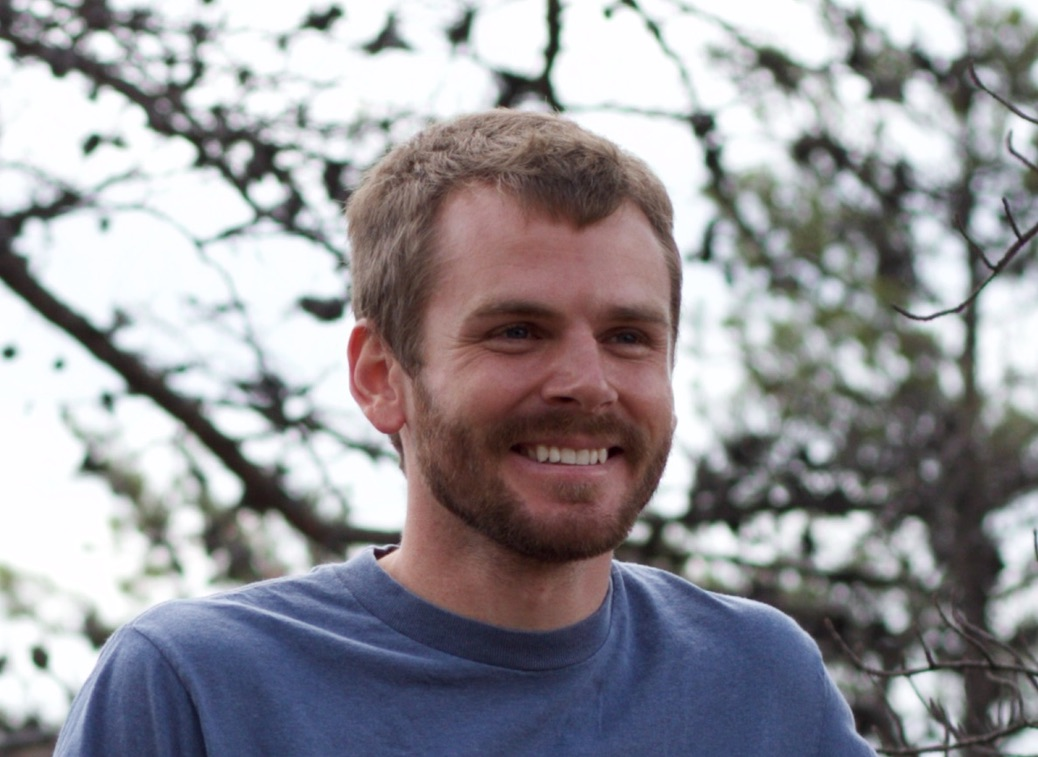
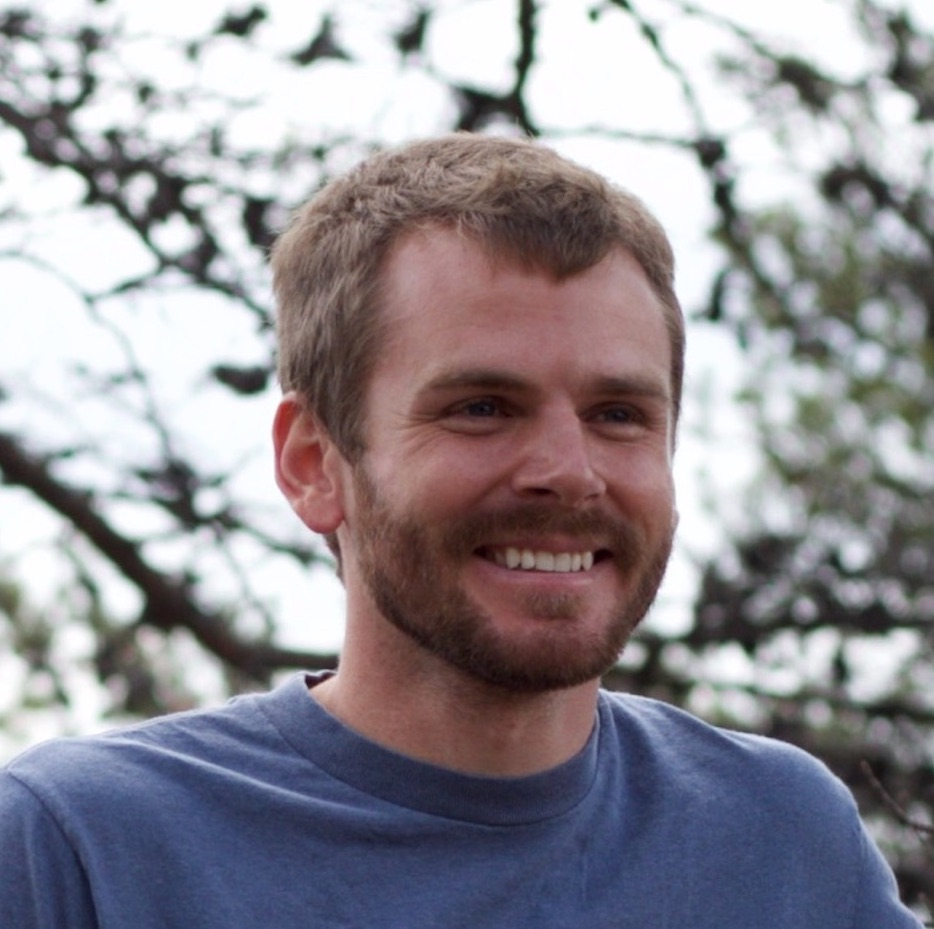
Adjust profile-pic and skills section formatting

diff --git a/index.html b/index.html
@@ -25,7 +25,6 @@
 
   <div class="middle-container">
     <div class="profile">
-      <!-- Change this pic to something outdoorsy -->
       <img class="profile-pic" src="./images/profile-pic.jpeg" alt="Me stiffling a laugh">
       <h2>Hello.</h2>
       <p>I'm a Fullstack Software Developer that loves the outdoors <em>almost</em> as much as technology!</p>
@@ -38,7 +37,6 @@
   
   <div id="skills-section" class="middle-container">
     <div class="skill">
-      <!--left justify skills, use the same font as title-->
       <h2>My Skills.</h2>
       <div class="skill-row frontend-skill">
         <img class="frontend-icon" src="./images/frontend-icon.png" alt="HTML carrots only containing a forward slash">
@@ -67,7 +65,7 @@
     <div class="contact-me">
       <h2>Get In Touch.</h2>
       <h4>Email:</h4>
-      <p>Hyrum.butler3@gmail.com</p>
+      <p>hyrum.butler3@gmail.com</p>
       <h4>Phone number:</h4>
       <p>(540)-816-9487</p>
       <a class="btn email-link" href="mailto:hyrum.butler3@gmail.com">CONTACT ME</a>

diff --git a/css/style.css b/css/style.css
@@ -72,8 +72,9 @@ ul {
 }
 
 .profile-pic {
-    border-radius: 100%;
+    border-radius: 50%;
     height: 200px;
+    width: 200px;
     padding-top: 10px;
 }
 
@@ -127,6 +128,7 @@ ul {
 }
 
 #skills-section {
+    font-family: 'Merriweather', serif;
     padding-top: 20px;
     position: relative;
     right: 0;
@@ -140,6 +142,11 @@ ul {
 
 .frontend-skill {
     margin-right: 5%;
+
+}
+
+.frontend-list {
+    text-align: left;
 }
 
 .frontend-icon {
@@ -148,6 +155,11 @@ ul {
 
 .backend-skill {
     margin-left: 5%;
+}
+
+.backend-list {
+    margin-left: 90px;
+    text-align: left;
 }
 
 .backend-icon {
